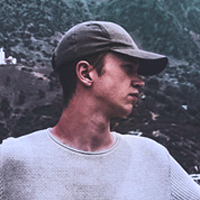
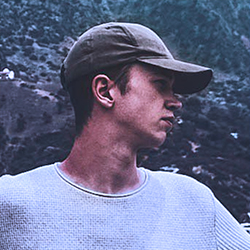
feat: scaled up images

diff --git a/src/pages/AboutUs/Aboutus.scss b/src/pages/AboutUs/Aboutus.scss
@@ -102,16 +102,21 @@
 .team-pics {
   margin-top: 52px;
   display: grid;
-  grid-template-columns: repeat(auto-fill, 220px);
-  justify-content: space-between;
+  grid-template-columns: repeat(auto-fill, 250px);
+  justify-content: center;
+  column-gap: 25px;
+
+  @include common.tablet-specific {
+    justify-content: space-between;
+  }
 
   @include common.desktop-specific {
-    column-gap: 25px;
+    justify-content: space-between;
   }
 }
 
 .team-individual {
-  max-width: 220px;
+  max-width: 250px;
   justify-content: space-between;
   margin-bottom: 30px;
 
@@ -126,7 +131,6 @@
   }
 
   img {
-    border-radius: 0;
     border: none;
     flex-basis: 100%;
     border-radius: 10px;
